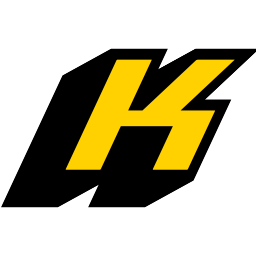
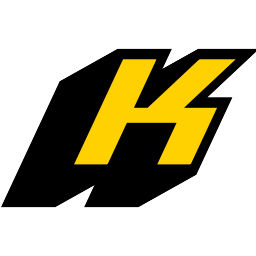
Ikona: K identyczne jak w napisie we wszystkich rozmiarach
Małe rozmiary miały grubszą obwódkę i krótszy cień – inne proporcje niż
w napisie. Teraz każdy rozmiar to to samo SVG, tylko przeskalowane.

Claude-Session: https://claude.ai/code/session_01LvTP9CFSTm3rKrhcqSmiMY

diff --git a/identyfikacja/identyfikacja.py b/identyfikacja/identyfikacja.py
@@ -108,13 +108,10 @@ def mark(text="KAYENN", sw=9, depth=28, side=50, gap=24, square=False, bg=None, 
             f'role="img" aria-label="{label or text}">{bgr}{"".join(g)}</svg>')
 
 
-def icon(size):
-    """Ikona: litera K. W małych rozmiarach grubsza obwódka i krótszy cień – żeby K było czytelne."""
-    if size <= 24:
-        return mark("K", sw=16, depth=12, side=20, square=True, label="KAYENN")
-    if size <= 48:
-        return mark("K", sw=12, depth=18, side=32, square=True, label="KAYENN")
-    return mark("K", sw=9, depth=22, side=40, square=True, label="KAYENN")
+def icon(size=None):
+    """Ikona: litera K dokładnie jak w napisie (te same proporcje, obwódka i cień), w kwadratowym polu.
+    Wszystkie rozmiary to to samo SVG – tylko przeskalowane."""
+    return mark("K", square=True, label="KAYENN")
 
 
 ICON_SIZES = (16, 20, 24, 32, 40, 48, 64, 128, 256)
